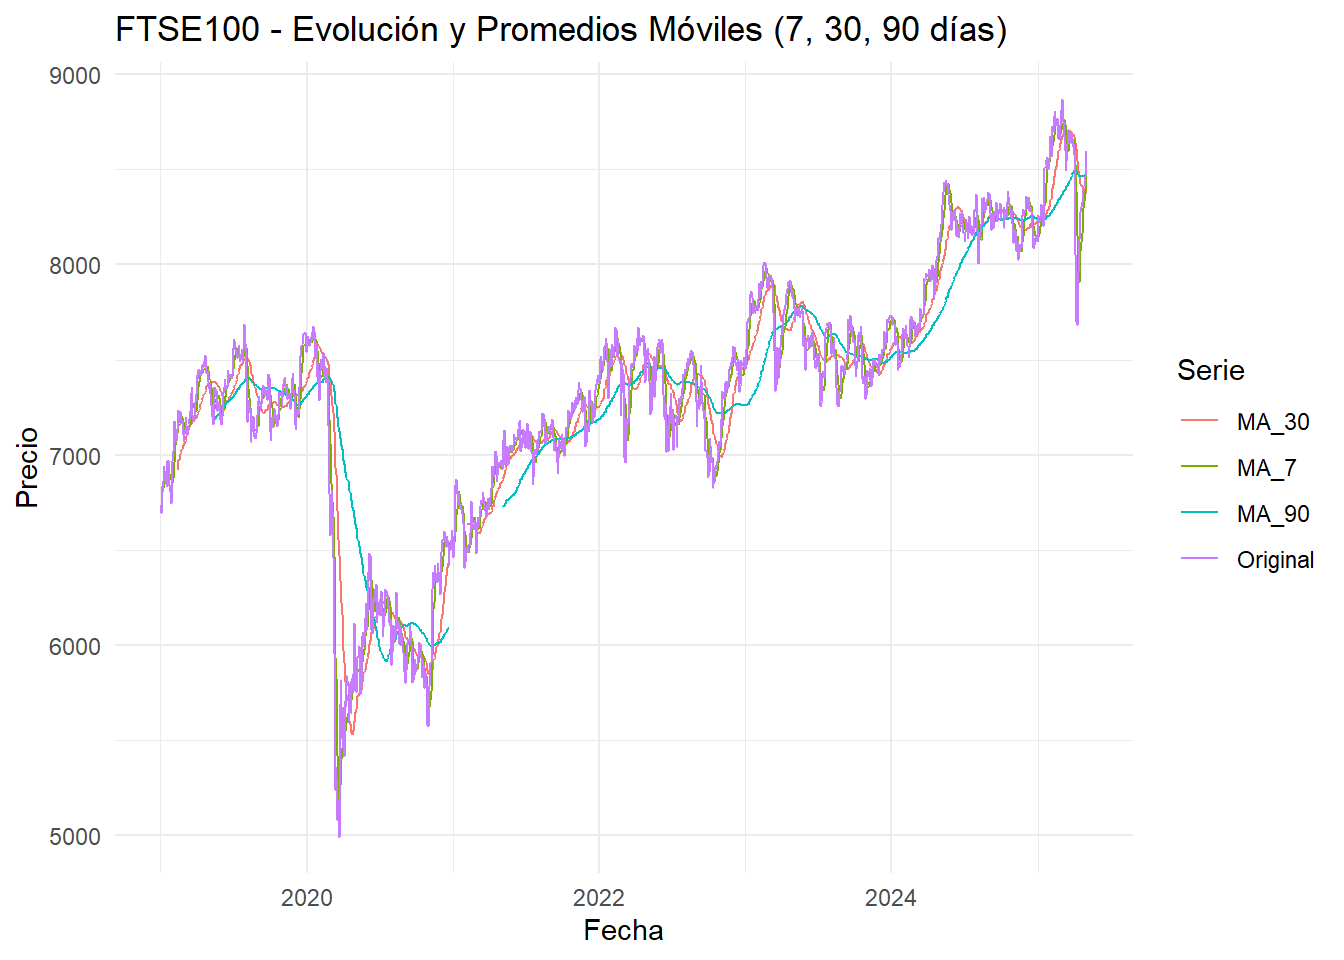
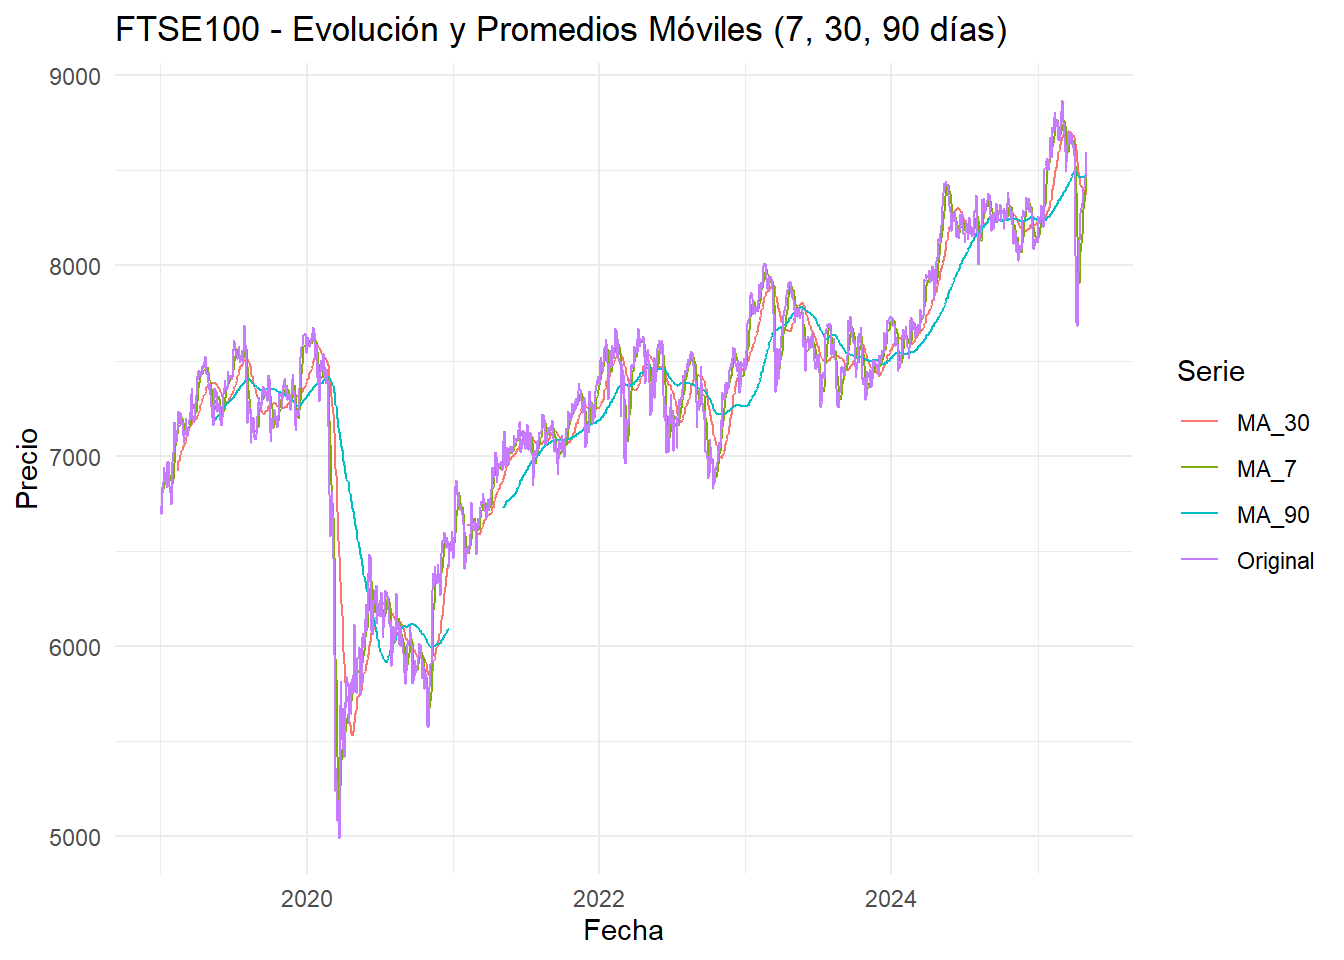
Renderizado del sitio en la raíz para GitHub Pages

diff --git a/_book/desarrollo-actividad-2..html b/_book/desarrollo-actividad-2..html
@@ -315,7 +315,7 @@ code span.wa { color: #60a0b0; font-weight: bold; font-style: italic; } /* Warni
 <span id="cb10-8"><a href="desarrollo-actividad-2..html#cb10-8" tabindex="-1"></a>  ) <span class="sc">+</span></span>
 <span id="cb10-9"><a href="desarrollo-actividad-2..html#cb10-9" tabindex="-1"></a>  <span class="fu">theme_minimal</span>()</span></code></pre></div>
 </details>
-<p><img src="_main_files/figure-html/unnamed-chunk-24-1.png" width="672" /></p>
+<p><img src="_main_files/figure-html/unnamed-chunk-8-1.png" width="672" /></p>
 </div>
 </div>
 <div id="promedios-móviles" class="section level2 hasAnchor" number="3.3">
@@ -372,7 +372,7 @@ code span.wa { color: #60a0b0; font-weight: bold; font-style: italic; } /* Warni
 <span id="cb13-18"><a href="desarrollo-actividad-2..html#cb13-18" tabindex="-1"></a>  <span class="fu">print</span>(<span class="fu">graficar_promedios_moviles</span>(promedios_moviles[[indice]], indice))</span>
 <span id="cb13-19"><a href="desarrollo-actividad-2..html#cb13-19" tabindex="-1"></a>}</span></code></pre></div>
 </details>
-<p><img src="_main_files/figure-html/unnamed-chunk-27-1.png" width="672" /><img src="_main_files/figure-html/unnamed-chunk-27-2.png" width="672" /><img src="_main_files/figure-html/unnamed-chunk-27-3.png" width="672" /><img src="_main_files/figure-html/unnamed-chunk-27-4.png" width="672" /><img src="_main_files/figure-html/unnamed-chunk-27-5.png" width="672" /><img src="_main_files/figure-html/unnamed-chunk-27-6.png" width="672" /><img src="_main_files/figure-html/unnamed-chunk-27-7.png" width="672" /><img src="_main_files/figure-html/unnamed-chunk-27-8.png" width="672" /><img src="_main_files/figure-html/unnamed-chunk-27-9.png" width="672" /></p>
+<p><img src="_main_files/figure-html/unnamed-chunk-11-1.png" width="672" /><img src="_main_files/figure-html/unnamed-chunk-11-2.png" width="672" /><img src="_main_files/figure-html/unnamed-chunk-11-3.png" width="672" /><img src="_main_files/figure-html/unnamed-chunk-11-4.png" width="672" /><img src="_main_files/figure-html/unnamed-chunk-11-5.png" width="672" /><img src="_main_files/figure-html/unnamed-chunk-11-6.png" width="672" /><img src="_main_files/figure-html/unnamed-chunk-11-7.png" width="672" /><img src="_main_files/figure-html/unnamed-chunk-11-8.png" width="672" /><img src="_main_files/figure-html/unnamed-chunk-11-9.png" width="672" /></p>
 </div>
 </div>
 <div id="autocorrelación-acf" class="section level2 hasAnchor" number="3.4">
@@ -401,7 +401,7 @@ code span.wa { color: #60a0b0; font-weight: bold; font-style: italic; } /* Warni
 <span id="cb14-10"><a href="desarrollo-actividad-2..html#cb14-10" tabindex="-1"></a>  <span class="fu">graficar_acf</span>(cierres_zoo[[indice]], indice)</span>
 <span id="cb14-11"><a href="desarrollo-actividad-2..html#cb14-11" tabindex="-1"></a>}</span></code></pre></div>
 </details>
-<p><img src="_main_files/figure-html/unnamed-chunk-28-1.png" width="672" /><img src="_main_files/figure-html/unnamed-chunk-28-2.png" width="672" /><img src="_main_files/figure-html/unnamed-chunk-28-3.png" width="672" /><img src="_main_files/figure-html/unnamed-chunk-28-4.png" width="672" /><img src="_main_files/figure-html/unnamed-chunk-28-5.png" width="672" /><img src="_main_files/figure-html/unnamed-chunk-28-6.png" width="672" /><img src="_main_files/figure-html/unnamed-chunk-28-7.png" width="672" /><img src="_main_files/figure-html/unnamed-chunk-28-8.png" width="672" /><img src="_main_files/figure-html/unnamed-chunk-28-9.png" width="672" /></p>
+<p><img src="_main_files/figure-html/unnamed-chunk-12-1.png" width="672" /><img src="_main_files/figure-html/unnamed-chunk-12-2.png" width="672" /><img src="_main_files/figure-html/unnamed-chunk-12-3.png" width="672" /><img src="_main_files/figure-html/unnamed-chunk-12-4.png" width="672" /><img src="_main_files/figure-html/unnamed-chunk-12-5.png" width="672" /><img src="_main_files/figure-html/unnamed-chunk-12-6.png" width="672" /><img src="_main_files/figure-html/unnamed-chunk-12-7.png" width="672" /><img src="_main_files/figure-html/unnamed-chunk-12-8.png" width="672" /><img src="_main_files/figure-html/unnamed-chunk-12-9.png" width="672" /></p>
 </div>
 </div>
 <div id="descomposición-de-serie-de-tiempo." class="section level2 hasAnchor" number="3.5">
@@ -435,7 +435,7 @@ code span.wa { color: #60a0b0; font-weight: bold; font-style: italic; } /* Warni
 <span id="cb15-24"><a href="desarrollo-actividad-2..html#cb15-24" tabindex="-1"></a>  <span class="fu">descomponer_y_graficar</span>(cierres_zoo[[indice]], indice)</span>
 <span id="cb15-25"><a href="desarrollo-actividad-2..html#cb15-25" tabindex="-1"></a>}</span></code></pre></div>
 </details>
-<p><img src="_main_files/figure-html/unnamed-chunk-29-1.png" width="672" /><img src="_main_files/figure-html/unnamed-chunk-29-2.png" width="672" /><img src="_main_files/figure-html/unnamed-chunk-29-3.png" width="672" /><img src="_main_files/figure-html/unnamed-chunk-29-4.png" width="672" /><img src="_main_files/figure-html/unnamed-chunk-29-5.png" width="672" /><img src="_main_files/figure-html/unnamed-chunk-29-6.png" width="672" /><img src="_main_files/figure-html/unnamed-chunk-29-7.png" width="672" /><img src="_main_files/figure-html/unnamed-chunk-29-8.png" width="672" /><img src="_main_files/figure-html/unnamed-chunk-29-9.png" width="672" /><img src="_main_files/figure-html/unnamed-chunk-29-10.png" width="672" /><img src="_main_files/figure-html/unnamed-chunk-29-11.png" width="672" /><img src="_main_files/figure-html/unnamed-chunk-29-12.png" width="672" /><img src="_main_files/figure-html/unnamed-chunk-29-13.png" width="672" /><img src="_main_files/figure-html/unnamed-chunk-29-14.png" width="672" /><img src="_main_files/figure-html/unnamed-chunk-29-15.png" width="672" /><img src="_main_files/figure-html/unnamed-chunk-29-16.png" width="672" /><img src="_main_files/figure-html/unnamed-chunk-29-17.png" width="672" /><img src="_main_files/figure-html/unnamed-chunk-29-18.png" width="672" /></p>
+<p><img src="_main_files/figure-html/unnamed-chunk-13-1.png" width="672" /><img src="_main_files/figure-html/unnamed-chunk-13-2.png" width="672" /><img src="_main_files/figure-html/unnamed-chunk-13-3.png" width="672" /><img src="_main_files/figure-html/unnamed-chunk-13-4.png" width="672" /><img src="_main_files/figure-html/unnamed-chunk-13-5.png" width="672" /><img src="_main_files/figure-html/unnamed-chunk-13-6.png" width="672" /><img src="_main_files/figure-html/unnamed-chunk-13-7.png" width="672" /><img src="_main_files/figure-html/unnamed-chunk-13-8.png" width="672" /><img src="_main_files/figure-html/unnamed-chunk-13-9.png" width="672" /><img src="_main_files/figure-html/unnamed-chunk-13-10.png" width="672" /><img src="_main_files/figure-html/unnamed-chunk-13-11.png" width="672" /><img src="_main_files/figure-html/unnamed-chunk-13-12.png" width="672" /><img src="_main_files/figure-html/unnamed-chunk-13-13.png" width="672" /><img src="_main_files/figure-html/unnamed-chunk-13-14.png" width="672" /><img src="_main_files/figure-html/unnamed-chunk-13-15.png" width="672" /><img src="_main_files/figure-html/unnamed-chunk-13-16.png" width="672" /><img src="_main_files/figure-html/unnamed-chunk-13-17.png" width="672" /><img src="_main_files/figure-html/unnamed-chunk-13-18.png" width="672" /></p>
 </div>
 </div>
 <div id="tabla-de-resumen-con-tendencia-estacionalidad-y-ruido-para-todos-los-indices." class="section level2 hasAnchor" number="3.6">
@@ -526,7 +526,7 @@ code span.wa { color: #60a0b0; font-weight: bold; font-style: italic; } /* Warni
 <span id="cb16-83"><a href="desarrollo-actividad-2..html#cb16-83" tabindex="-1"></a>)</span></code></pre></div>
 </details>
 <table>
-<caption><span id="tab:unnamed-chunk-30">Table 3.1: </span>Resumen automático de la tendencia, estacionalidad y ruido observados por índice (basado en descomposición STL).</caption>
+<caption><span id="tab:unnamed-chunk-14">Table 3.1: </span>Resumen automático de la tendencia, estacionalidad y ruido observados por índice (basado en descomposición STL).</caption>
 <thead>
 <tr class="header">
 <th align="left">Indice</th>
@@ -642,7 +642,7 @@ code span.wa { color: #60a0b0; font-weight: bold; font-style: italic; } /* Warni
 <span id="cb17-44"><a href="desarrollo-actividad-2..html#cb17-44" tabindex="-1"></a>  <span class="fu">theme_minimal</span>() <span class="sc">+</span></span>
 <span id="cb17-45"><a href="desarrollo-actividad-2..html#cb17-45" tabindex="-1"></a>  <span class="fu">theme</span>(<span class="at">axis.text.x =</span> <span class="fu">element_text</span>(<span class="at">angle =</span> <span class="dv">45</span>, <span class="at">hjust =</span> <span class="dv">1</span>))</span></code></pre></div>
 </details>
-<p><img src="_main_files/figure-html/unnamed-chunk-31-1.png" width="672" /></p>
+<p><img src="_main_files/figure-html/unnamed-chunk-15-1.png" width="672" /></p>
 </div>
 </div>
             </section>

diff --git a/_book/desarrollo-actividad-3..html b/_book/desarrollo-actividad-3..html
@@ -385,7 +385,7 @@ code span.wa { color: #60a0b0; font-weight: bold; font-style: italic; } /* Warni
 ## ==================================================
 ## ANÁLISIS DE: SP500 
 ## ==================================================</code></pre>
-<p><img src="_main_files/figure-html/unnamed-chunk-34-1.png" width="672" /></p>
+<p><img src="_main_files/figure-html/unnamed-chunk-18-1.png" width="672" /></p>
 <pre><code>## Transformación logarítmica aplicada (CV = 0.225 )
 ## p-valor Dickey-Fuller: 0.00848 
 ## La serie transformada es estacionaria. No se aplica diferenciación.
@@ -394,7 +394,7 @@ code span.wa { color: #60a0b0; font-weight: bold; font-style: italic; } /* Warni
 ## ==================================================
 ## ANÁLISIS DE: DowJones 
 ## ==================================================</code></pre>
-<p><img src="_main_files/figure-html/unnamed-chunk-34-2.png" width="672" /></p>
+<p><img src="_main_files/figure-html/unnamed-chunk-18-2.png" width="672" /></p>
 <pre><code>## No se aplica transformación logarítmica (CV = 0.165 )
 ## p-valor Dickey-Fuller: 0.00413 
 ## La serie transformada es estacionaria. No se aplica diferenciación.
@@ -403,7 +403,7 @@ code span.wa { color: #60a0b0; font-weight: bold; font-style: italic; } /* Warni
 ## ==================================================
 ## ANÁLISIS DE: Nasdaq 
 ## ==================================================</code></pre>
-<p><img src="_main_files/figure-html/unnamed-chunk-34-3.png" width="672" /></p>
+<p><img src="_main_files/figure-html/unnamed-chunk-18-3.png" width="672" /></p>
 <pre><code>## Transformación logarítmica aplicada (CV = 0.263 )
 ## p-valor Dickey-Fuller: 0.02449 
 ## La serie transformada es estacionaria. No se aplica diferenciación.
@@ -412,10 +412,10 @@ code span.wa { color: #60a0b0; font-weight: bold; font-style: italic; } /* Warni
 ## ==================================================
 ## ANÁLISIS DE: DAX 
 ## ==================================================</code></pre>
-<p><img src="_main_files/figure-html/unnamed-chunk-34-4.png" width="672" /></p>
+<p><img src="_main_files/figure-html/unnamed-chunk-18-4.png" width="672" /></p>
 <pre><code>## No se aplica transformación logarítmica (CV = 0.185 )
 ## p-valor Dickey-Fuller: 0.09312</code></pre>
-<p><img src="_main_files/figure-html/unnamed-chunk-34-5.png" width="672" /></p>
+<p><img src="_main_files/figure-html/unnamed-chunk-18-5.png" width="672" /></p>
 <pre><code>## Serie NO estacionaria. Se aplica diferenciación de orden: 1 
 ## p-valor Dickey-Fuller tras diferenciación: 0 
 ## La serie diferenciada ahora es estacionaria.
@@ -424,7 +424,7 @@ code span.wa { color: #60a0b0; font-weight: bold; font-style: italic; } /* Warni
 ## ==================================================
 ## ANÁLISIS DE: CAC40 
 ## ==================================================</code></pre>
-<p><img src="_main_files/figure-html/unnamed-chunk-34-6.png" width="672" /></p>
+<p><img src="_main_files/figure-html/unnamed-chunk-18-6.png" width="672" /></p>
 <pre><code>## No se aplica transformación logarítmica (CV = 0.156 )
 ## p-valor Dickey-Fuller: 0.00247 
 ## La serie transformada es estacionaria. No se aplica diferenciación.
@@ -433,7 +433,7 @@ code span.wa { color: #60a0b0; font-weight: bold; font-style: italic; } /* Warni
 ## ==================================================
 ## ANÁLISIS DE: FTSE100 
 ## ==================================================</code></pre>
-<p><img src="_main_files/figure-html/unnamed-chunk-34-7.png" width="672" /></p>
+<p><img src="_main_files/figure-html/unnamed-chunk-18-7.png" width="672" /></p>
 <pre><code>## No se aplica transformación logarítmica (CV = 0.093 )
 ## p-valor Dickey-Fuller: 0.00478 
 ## La serie transformada es estacionaria. No se aplica diferenciación.
@@ -442,7 +442,7 @@ code span.wa { color: #60a0b0; font-weight: bold; font-style: italic; } /* Warni
 ## ==================================================
 ## ANÁLISIS DE: Nikkei225 
 ## ==================================================</code></pre>
-<p><img src="_main_files/figure-html/unnamed-chunk-34-8.png" width="672" /></p>
+<p><img src="_main_files/figure-html/unnamed-chunk-18-8.png" width="672" /></p>
 <pre><code>## Transformación logarítmica aplicada (CV = 0.208 )
 ## p-valor Dickey-Fuller: 0.00237 
 ## La serie transformada es estacionaria. No se aplica diferenciación.
@@ -451,7 +451,7 @@ code span.wa { color: #60a0b0; font-weight: bold; font-style: italic; } /* Warni
 ## ==================================================
 ## ANÁLISIS DE: HangSeng 
 ## ==================================================</code></pre>
-<p><img src="_main_files/figure-html/unnamed-chunk-34-9.png" width="672" /></p>
+<p><img src="_main_files/figure-html/unnamed-chunk-18-9.png" width="672" /></p>
 <pre><code>## No se aplica transformación logarítmica (CV = 0.182 )
 ## p-valor Dickey-Fuller: 0.01316 
 ## La serie transformada es estacionaria. No se aplica diferenciación.
@@ -460,7 +460,7 @@ code span.wa { color: #60a0b0; font-weight: bold; font-style: italic; } /* Warni
 ## ==================================================
 ## ANÁLISIS DE: ShanghaiComposite 
 ## ==================================================</code></pre>
-<p><img src="_main_files/figure-html/unnamed-chunk-34-10.png" width="672" /></p>
+<p><img src="_main_files/figure-html/unnamed-chunk-18-10.png" width="672" /></p>
 <pre><code>## No se aplica transformación logarítmica (CV = 0.078 )
 ## p-valor Dickey-Fuller: 0.00048 
 ## La serie transformada es estacionaria. No se aplica diferenciación.</code></pre>
@@ -475,7 +475,7 @@ code span.wa { color: #60a0b0; font-weight: bold; font-style: italic; } /* Warni
 <span id="cb32-4"><a href="desarrollo-actividad-3..html#cb32-4" tabindex="-1"></a>)</span></code></pre></div>
 </details>
 <table>
-<caption><span id="tab:unnamed-chunk-35">Table 4.1: </span>Resumen del análisis de estacionariedad y transformaciones aplicadas por índice bursátil</caption>
+<caption><span id="tab:unnamed-chunk-19">Table 4.1: </span>Resumen del análisis de estacionariedad y transformaciones aplicadas por índice bursátil</caption>
 <colgroup>
 <col width="25%" />
 <col width="8%" />

diff --git a/_book/implementación-de-modelos..html b/_book/implementación-de-modelos..html
@@ -347,63 +347,63 @@ Se utiliza un procedimiento automático (auto.arima) que busca el mejor modelo A
 ## 
 ## === Diagnóstico ARIMA - SP500 ===
 ## Modelo ajustado: ARIMA(2,1,2) with drift</code></pre>
-<p><img src="_main_files/figure-html/unnamed-chunk-37-1.png" width="672" /><img src="_main_files/figure-html/unnamed-chunk-37-2.png" width="672" /></p>
+<p><img src="_main_files/figure-html/unnamed-chunk-21-1.png" width="672" /><img src="_main_files/figure-html/unnamed-chunk-21-2.png" width="672" /></p>
 <pre><code>## p-valor Shapiro-Wilk: 0 - No normal 
 ## p-valor Ljung-Box: 0.56727 - Ruido blanco 
 ## 
 ## 
 ## === Diagnóstico ARIMA - DowJones ===
 ## Modelo ajustado: ARIMA(2,1,2) with drift</code></pre>
-<p><img src="_main_files/figure-html/unnamed-chunk-37-3.png" width="672" /><img src="_main_files/figure-html/unnamed-chunk-37-4.png" width="672" /></p>
+<p><img src="_main_files/figure-html/unnamed-chunk-21-3.png" width="672" /><img src="_main_files/figure-html/unnamed-chunk-21-4.png" width="672" /></p>
 <pre><code>## p-valor Shapiro-Wilk: 0 - No normal 
 ## p-valor Ljung-Box: 0.80404 - Ruido blanco 
 ## 
 ## 
 ## === Diagnóstico ARIMA - Nasdaq ===
 ## Modelo ajustado: ARIMA(4,1,3) with drift</code></pre>
-<p><img src="_main_files/figure-html/unnamed-chunk-37-5.png" width="672" /><img src="_main_files/figure-html/unnamed-chunk-37-6.png" width="672" /></p>
+<p><img src="_main_files/figure-html/unnamed-chunk-21-5.png" width="672" /><img src="_main_files/figure-html/unnamed-chunk-21-6.png" width="672" /></p>
 <pre><code>## p-valor Shapiro-Wilk: 0 - No normal 
 ## p-valor Ljung-Box: 0.88196 - Ruido blanco 
 ## 
 ## 
 ## === Diagnóstico ARIMA - DAX ===
 ## Modelo ajustado: ARIMA(4,0,3) with non-zero mean</code></pre>
-<p><img src="_main_files/figure-html/unnamed-chunk-37-7.png" width="672" /><img src="_main_files/figure-html/unnamed-chunk-37-8.png" width="672" /></p>
+<p><img src="_main_files/figure-html/unnamed-chunk-21-7.png" width="672" /><img src="_main_files/figure-html/unnamed-chunk-21-8.png" width="672" /></p>
 <pre><code>## p-valor Shapiro-Wilk: 0 - No normal 
 ## p-valor Ljung-Box: 0.08595 - Ruido blanco 
 ## 
 ## 
 ## === Diagnóstico ARIMA - CAC40 ===
 ## Modelo ajustado: ARIMA(0,1,0)</code></pre>
-<p><img src="_main_files/figure-html/unnamed-chunk-37-9.png" width="672" /><img src="_main_files/figure-html/unnamed-chunk-37-10.png" width="672" /></p>
+<p><img src="_main_files/figure-html/unnamed-chunk-21-9.png" width="672" /><img src="_main_files/figure-html/unnamed-chunk-21-10.png" width="672" /></p>
 <pre><code>## p-valor Shapiro-Wilk: 0 - No normal 
 ## p-valor Ljung-Box: 0.03156 - Autocorrelados 
 ## 
 ## 
 ## === Diagnóstico ARIMA - FTSE100 ===
 ## Modelo ajustado: ARIMA(0,1,0)</code></pre>
-<p><img src="_main_files/figure-html/unnamed-chunk-37-11.png" width="672" /><img src="_main_files/figure-html/unnamed-chunk-37-12.png" width="672" /></p>
+<p><img src="_main_files/figure-html/unnamed-chunk-21-11.png" width="672" /><img src="_main_files/figure-html/unnamed-chunk-21-12.png" width="672" /></p>
 <pre><code>## p-valor Shapiro-Wilk: 0 - No normal 
 ## p-valor Ljung-Box: 2e-05 - Autocorrelados 
 ## 
 ## 
 ## === Diagnóstico ARIMA - Nikkei225 ===
 ## Modelo ajustado: ARIMA(1,1,2)</code></pre>
-<p><img src="_main_files/figure-html/unnamed-chunk-37-13.png" width="672" /><img src="_main_files/figure-html/unnamed-chunk-37-14.png" width="672" /></p>
+<p><img src="_main_files/figure-html/unnamed-chunk-21-13.png" width="672" /><img src="_main_files/figure-html/unnamed-chunk-21-14.png" width="672" /></p>
 <pre><code>## p-valor Shapiro-Wilk: 0 - No normal 
 ## p-valor Ljung-Box: 0.62166 - Ruido blanco 
 ## 
 ## 
 ## === Diagnóstico ARIMA - HangSeng ===
 ## Modelo ajustado: ARIMA(0,1,0)</code></pre>
-<p><img src="_main_files/figure-html/unnamed-chunk-37-15.png" width="672" /><img src="_main_files/figure-html/unnamed-chunk-37-16.png" width="672" /></p>
+<p><img src="_main_files/figure-html/unnamed-chunk-21-15.png" width="672" /><img src="_main_files/figure-html/unnamed-chunk-21-16.png" width="672" /></p>
 <pre><code>## p-valor Shapiro-Wilk: 0 - No normal 
 ## p-valor Ljung-Box: 0.67402 - Ruido blanco 
 ## 
 ## 
 ## === Diagnóstico ARIMA - ShanghaiComposite ===
 ## Modelo ajustado: ARIMA(0,1,0)</code></pre>
-<p><img src="_main_files/figure-html/unnamed-chunk-37-17.png" width="672" /><img src="_main_files/figure-html/unnamed-chunk-37-18.png" width="672" /></p>
+<p><img src="_main_files/figure-html/unnamed-chunk-21-17.png" width="672" /><img src="_main_files/figure-html/unnamed-chunk-21-18.png" width="672" /></p>
 <pre><code>## p-valor Shapiro-Wilk: 0 - No normal 
 ## p-valor Ljung-Box: 0.39639 - Ruido blanco</code></pre>
 </div>
@@ -416,7 +416,7 @@ Se utiliza un procedimiento automático (auto.arima) que busca el mejor modelo A
 <span id="cb45-4"><a href="implementación-de-modelos..html#cb45-4" tabindex="-1"></a>)</span></code></pre></div>
 </details>
 <table>
-<caption><span id="tab:unnamed-chunk-38">Table 5.1: </span>Resumen del modelo ARIMA y diagnóstico de residuos por índice bursátil</caption>
+<caption><span id="tab:unnamed-chunk-22">Table 5.1: </span>Resumen del modelo ARIMA y diagnóstico de residuos por índice bursátil</caption>
 <colgroup>
 <col width="23%" />
 <col width="42%" />
